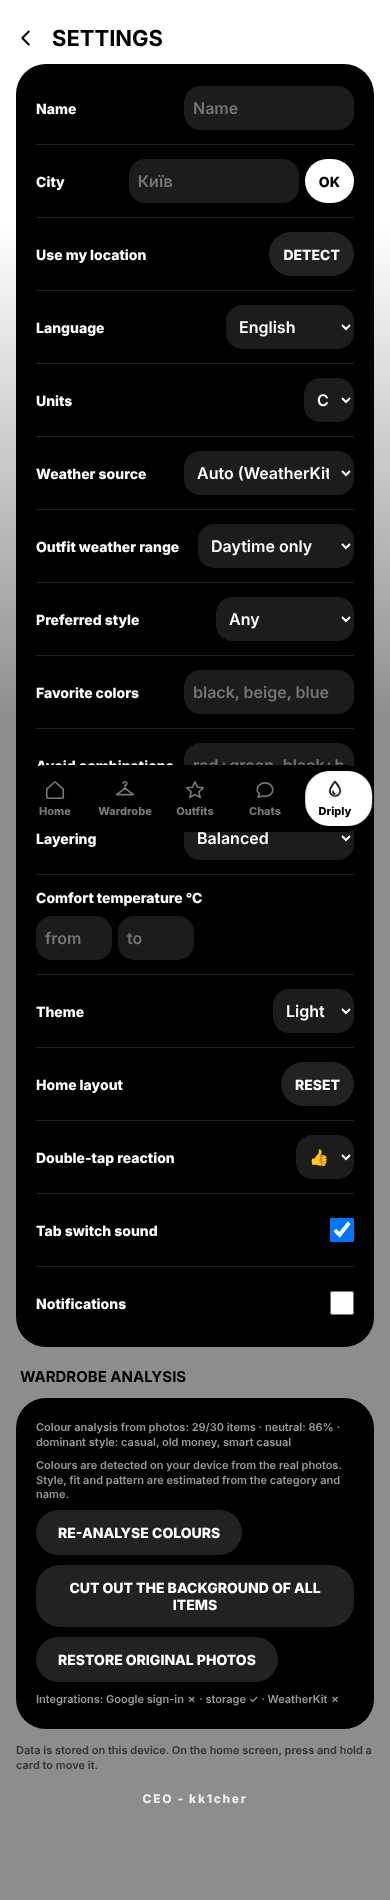
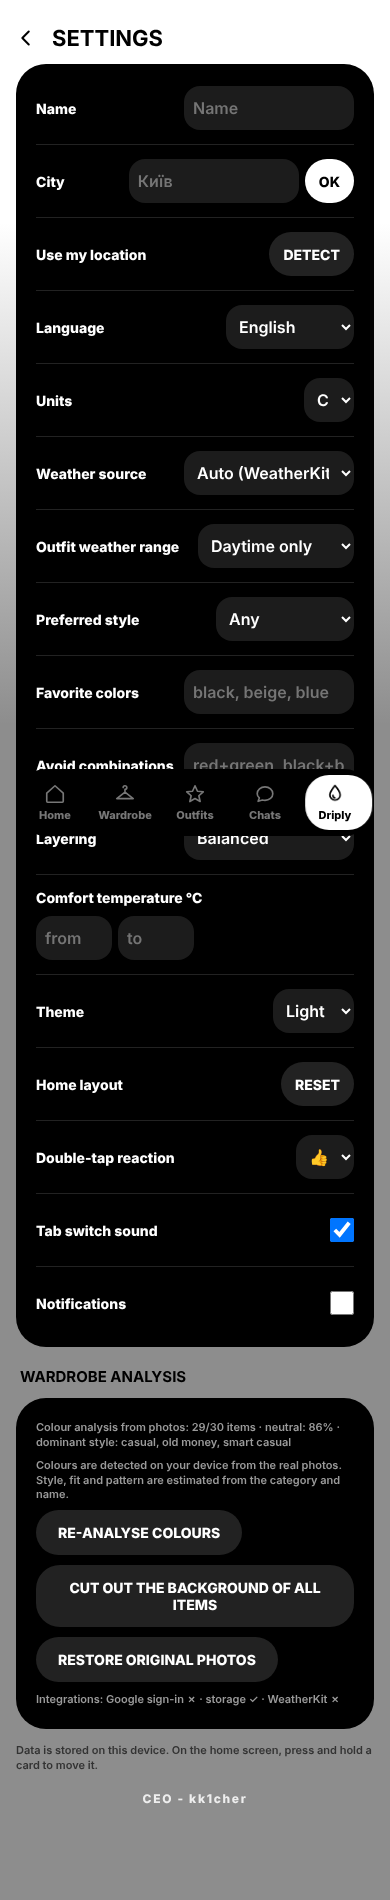
Tab bar and full-screen layers reach the real bottom edge (iOS short-viewport fix + lower nav); hide page under story to stop keyboard lag; SW v98
Claude-Session: https://claude.ai/code/session_01S2HiD2gXmzHQ91dDofdPVs

diff --git a/index.html b/index.html
@@ -10,6 +10,8 @@
 <meta name="apple-mobile-web-app-status-bar-style" content="black-translucent">
 <link rel="apple-touch-icon" href="icons/icon-192.png">
 <link rel="icon" href="icons/icon-192.png">
+<script>/* iOS home-screen apps can report a layout viewport shorter than the screen: measure the missing strip (--sd) so bottom-anchored layers reach the real bottom edge */
+(function(){function f(){try{var a=document.activeElement;if(a&&/^(INPUT|TEXTAREA|SELECT)$/.test(a.tagName))return;var d=0,st=navigator.standalone||(matchMedia&&matchMedia('(display-mode: standalone)').matches);if(st&&innerHeight>innerWidth){d=Math.round(screen.height-innerHeight);if(d<8||d>120)d=0}document.documentElement.style.setProperty('--sd',d+'px')}catch(e){}}f();addEventListener('resize',f);addEventListener('orientationchange',f);addEventListener('pageshow',f);addEventListener('focusout',function(){setTimeout(f,500)})})();</script>
 <style>
 :root{--h:#000;--bg1:#fff;--bg2:#8d8d8d;--card:#000;--fg:#fff;--mut:#9a9a9a;box-sizing:border-box;padding-top:env(safe-area-inset-top,0px)}
 :root[data-theme=dark]{--h:#fff;--bg1:#2a2a2a;--bg2:#000;--card:#111;--fg:#fff}
@@ -47,7 +49,7 @@ svg{fill:none;stroke:currentColor;stroke-width:1.8;stroke-linecap:round;stroke-l
 .hr{display:flex;justify-content:space-between;font-size:13px;padding:7px 0;border-bottom:1px solid #222}
 .hr:last-child{border:0}
 .hr i{font-style:normal;color:var(--mut);font-weight:600}
-nav{position:fixed;left:50%;transform:translateX(-50%);bottom:calc(12px + env(safe-area-inset-bottom,0px));background:#000;border-radius:30px;display:flex;gap:4px;padding:6px;width:min(calc(100% - 32px),488px)}
+nav{position:fixed;left:50%;transform:translateX(-50%);bottom:calc(8px + env(safe-area-inset-bottom,0px) * .4 - var(--sd,0px));background:#000;border-radius:30px;display:flex;gap:4px;padding:6px;width:min(calc(100% - 32px),488px)}
 nav button{flex:1;background:none;border:0;color:#777;font:inherit;font-size:11px;padding:8px 0;border-radius:24px;cursor:pointer;display:flex;flex-direction:column;align-items:center;gap:3px}
 nav button.on{color:#000}
 nav{touch-action:none;-webkit-user-select:none;user-select:none}
@@ -187,6 +189,9 @@ h2.h3{font-size:15px;margin:20px 4px 12px}
 @media(max-height:700px){.btn.big{font-size:13px;padding:12px 10px}.lb{min-height:64px}.home.haserr .tips:not(.warn){display:none}.tips.warn{font-size:11px;margin-top:4px}.names{font-size:11px}}
 .gp{margin:8px 0;border-radius:20px;background:rgba(127,127,127,.12);border:1px solid rgba(127,127,127,.28);overflow:hidden}.gh{all:unset;box-sizing:border-box;display:flex;align-items:center;gap:10px;width:100%;padding:10px 12px;cursor:pointer;color:var(--h);-webkit-tap-highlight-color:transparent}.gh:focus-visible{outline:2px solid currentColor;outline-offset:-3px;border-radius:20px}.gt{flex:1;min-width:0;font-size:13px;font-weight:800}.gm{display:flex;flex:none}.gm img{width:26px;height:26px;object-fit:contain;margin-left:-10px;filter:drop-shadow(0 1px 2px rgba(0,0,0,.25))}.gm img:first-child{margin-left:0}.gc{flex:none;font-size:12px;font-weight:800;min-width:26px;text-align:center;background:rgba(127,127,127,.25);border-radius:10px;padding:2px 8px}.chev{flex:none;width:8px;height:8px;margin:0 4px 3px 2px;border-right:2px solid currentColor;border-bottom:2px solid currentColor;transform:rotate(45deg);transition:transform .25s}.gp.open .chev{transform:rotate(-135deg);margin-bottom:-3px}.gp.open .gm{display:none}.gb{display:none;padding:2px 8px 10px}.gp.open .gb{display:block}
 .sbk{display:flex;align-items:center;gap:6px;margin:0 0 4px}.sbk h2{margin:0}.sbb{border:0;background:none;color:var(--h);width:40px;height:40px;border-radius:50%;display:flex;align-items:center;justify-content:center;cursor:pointer;margin-left:-10px;transition:background .2s,transform .15s}.sbb:active{transform:scale(.88)}:root[data-theme=glass] .sbb,:root[data-theme=dark] .sbb{color:#fff}.sbb svg{fill:none;stroke:currentColor;stroke-width:2.2;stroke-linecap:round;stroke-linejoin:round}
+
+.ed,.ch-iv,.modal{bottom:calc(var(--sd,0px)*-1)!important}.ch-ov{height:calc(100% + var(--sd,0px))!important}
+body.sv-open #app,body.sv-open nav{visibility:hidden}
 </style></head><body>
 <div id="off">Нет интернета — показаны сохранённые данные</div>
 <div id="app"></div>

diff --git a/sw.js b/sw.js
@@ -1,4 +1,4 @@
-const V='wardrobe-v97',MEDIA='wd-media',DEMO=["demo/chinos-beige.webp", "demo/coat-trench.webp", "demo/coat-wool.webp", "demo/hoodie-black-zip.webp", "demo/hoodie-grey.webp", "demo/jacket-black-highneck.webp", "demo/jacket-bomber.webp", "demo/jacket-denim-black.webp", "demo/jacket-denim.webp", "demo/jacket-rain.webp", "demo/jacket-suede-beige.webp", "demo/jeans-black-flare.webp", "demo/jeans-black-wide.webp", "demo/jeans-black.webp", "demo/jeans-blue.webp", "demo/jeans-lightblue-flare.webp", "demo/loafers-brown.webp", "demo/longsleeve-striped.webp", "demo/polo-black.webp", "demo/polo-white.webp", "demo/puffer-black.webp", "demo/puffer-white.webp", "demo/shirt-blue.webp", "demo/shirt-white.webp", "demo/shorts-denim.webp", "demo/sneakers-black.webp", "demo/sneakers-gat-black.webp", "demo/sneakers-gat-white.webp", "demo/sneakers-white.webp", "demo/sweater-beige.webp", "demo/sweater-black-cable.webp", "demo/sweater-black-quarter.webp", "demo/sweater-grey-cable.webp", "demo/sweater-navy.webp", "demo/sweater-pink-cable.webp", "demo/sweater-white-cable.webp", "demo/sweatpants-grey.webp", "demo/tee-black.webp", "demo/tee-grey.webp", "demo/tee-white.webp", "demo/trousers-black.webp", "demo/jordan-puffer-black.webp", "demo/palace-puffer-black.webp", "demo/bape-tee-white.webp", "demo/balenciaga-fortnite-tee.webp", "demo/polo-usa-zip-hoodie-grey.webp", "demo/mastermind-hoodie-black.webp", "demo/mastermind-hoodie-pink.webp", "demo/supreme-waffle-sweater-cream.webp", "demo/supreme-waffle-sweater-black.webp", "demo/saint-laurent-mohair-sweater.webp", "demo/supreme-blur-sweater.webp", "demo/supreme-zip-hoodie-black.webp", "demo/supreme-zip-hoodie-grey.webp", "demo/supreme-zip-hoodie-washed-black.webp"],SHELL=['./','index.html','i18n.js','social.js','editor.js','chat.js','manifest.webmanifest','icons/icon-192.png','icons/icon-512.png','tab.mp3'];
+const V='wardrobe-v98',MEDIA='wd-media',DEMO=["demo/chinos-beige.webp", "demo/coat-trench.webp", "demo/coat-wool.webp", "demo/hoodie-black-zip.webp", "demo/hoodie-grey.webp", "demo/jacket-black-highneck.webp", "demo/jacket-bomber.webp", "demo/jacket-denim-black.webp", "demo/jacket-denim.webp", "demo/jacket-rain.webp", "demo/jacket-suede-beige.webp", "demo/jeans-black-flare.webp", "demo/jeans-black-wide.webp", "demo/jeans-black.webp", "demo/jeans-blue.webp", "demo/jeans-lightblue-flare.webp", "demo/loafers-brown.webp", "demo/longsleeve-striped.webp", "demo/polo-black.webp", "demo/polo-white.webp", "demo/puffer-black.webp", "demo/puffer-white.webp", "demo/shirt-blue.webp", "demo/shirt-white.webp", "demo/shorts-denim.webp", "demo/sneakers-black.webp", "demo/sneakers-gat-black.webp", "demo/sneakers-gat-white.webp", "demo/sneakers-white.webp", "demo/sweater-beige.webp", "demo/sweater-black-cable.webp", "demo/sweater-black-quarter.webp", "demo/sweater-grey-cable.webp", "demo/sweater-navy.webp", "demo/sweater-pink-cable.webp", "demo/sweater-white-cable.webp", "demo/sweatpants-grey.webp", "demo/tee-black.webp", "demo/tee-grey.webp", "demo/tee-white.webp", "demo/trousers-black.webp", "demo/jordan-puffer-black.webp", "demo/palace-puffer-black.webp", "demo/bape-tee-white.webp", "demo/balenciaga-fortnite-tee.webp", "demo/polo-usa-zip-hoodie-grey.webp", "demo/mastermind-hoodie-black.webp", "demo/mastermind-hoodie-pink.webp", "demo/supreme-waffle-sweater-cream.webp", "demo/supreme-waffle-sweater-black.webp", "demo/saint-laurent-mohair-sweater.webp", "demo/supreme-blur-sweater.webp", "demo/supreme-zip-hoodie-black.webp", "demo/supreme-zip-hoodie-grey.webp", "demo/supreme-zip-hoodie-washed-black.webp"],SHELL=['./','index.html','i18n.js','social.js','editor.js','chat.js','manifest.webmanifest','icons/icon-192.png','icons/icon-512.png','tab.mp3'];
 self.addEventListener('install',e=>{e.waitUntil(caches.open(V).then(c=>c.addAll(SHELL).then(()=>Promise.all(DEMO.map(u=>c.add(u).catch(()=>{}))))).then(()=>self.skipWaiting()))});
 self.addEventListener('activate',e=>{e.waitUntil(caches.keys().then(k=>Promise.all(k.filter(x=>x!==V&&x!==MEDIA).map(x=>caches.delete(x)))).then(()=>self.clients.claim()))});
 self.addEventListener('fetch',e=>{

diff --git a/social.js b/social.js
@@ -974,12 +974,12 @@ function paintTray() { if (S.tab !== 'social') return; const e = document.getEle
 let V = null;
 const SDUR = 5000;
 function closeStory(quiet) {
-  if (V) { cancelAnimationFrame(V.raf); if (V.vvOff) V.vvOff(); V.el.remove(); V = null; document.body.style.overflow = ''; if (!quiet) { paintTray(); if (st.view === 'profile') refresh(); } }
+  if (V) { cancelAnimationFrame(V.raf); if (V.vvOff) V.vvOff(); V.el.remove(); V = null; document.body.style.overflow = ''; document.body.classList.remove('sv-open'); if (!quiet) { paintTray(); if (st.view === 'profile') refresh(); } }
 }
 function storyOpen(gi) {
   const groups = st.stories.groups; if (!groups || !groups[gi]) return;
   closeStory(true);
-  const el = document.createElement('div'); el.className = 'sc-sv'; el.id = 'sc-sv'; document.body.appendChild(el); document.body.style.overflow = 'hidden';
+  const el = document.createElement('div'); el.className = 'sc-sv'; el.id = 'sc-sv'; document.body.appendChild(el); document.body.style.overflow = 'hidden'; document.body.classList.add('sv-open');
   const g = groups[gi];
   V = { el, gi, si: g.author.me ? 0 : Math.max(0, g.stories.findIndex((x) => !x.seen)), left: SDUR, last: 0, paused: false, hold: false, ready: false, raf: 0, down: 0, y0: 0, panel: false };
   el.addEventListener('pointerdown', (e) => { if (e.target.closest('button,.sc-vw,form,.sc-rx')) return; V.down = Date.now(); V.y0 = e.clientY; V.x0 = e.clientX; V.hold = true; V.drag = false; });
@@ -1007,7 +1007,7 @@ function storyOpen(gi) {
     const a = b.dataset.a; if (a === 'x') closeStory(); else if (a === 'del') delStory(); else if (a === 'views') viewersPanel(); else if (a === 'vx') { V.panel = false; const w = el.querySelector('.sc-vw'); if (w) w.remove(); } else if (a === 'prof') { const n = b.dataset.n; closeStory(); profile(n); } else if (a === 'like') likeStory(b);
   });
   // iOS: the keyboard resizes/pans the page. Freeze the story at its opening size so the picture never moves or squashes; only the reply controls rise above the keyboard.
-  const H0 = window.innerHeight; el.style.height = H0 + 'px'; el.style.bottom = 'auto';
+  const H0 = window.innerHeight + (parseFloat(getComputedStyle(document.documentElement).getPropertyValue('--sd')) || 0); el.style.height = H0 + 'px'; el.style.bottom = 'auto';
   const vv = window.visualViewport;
   if (vv) {
     let raf = 0; const fit = () => { if (raf) return; raf = requestAnimationFrame(() => { raf = 0; fit2(); }); };
